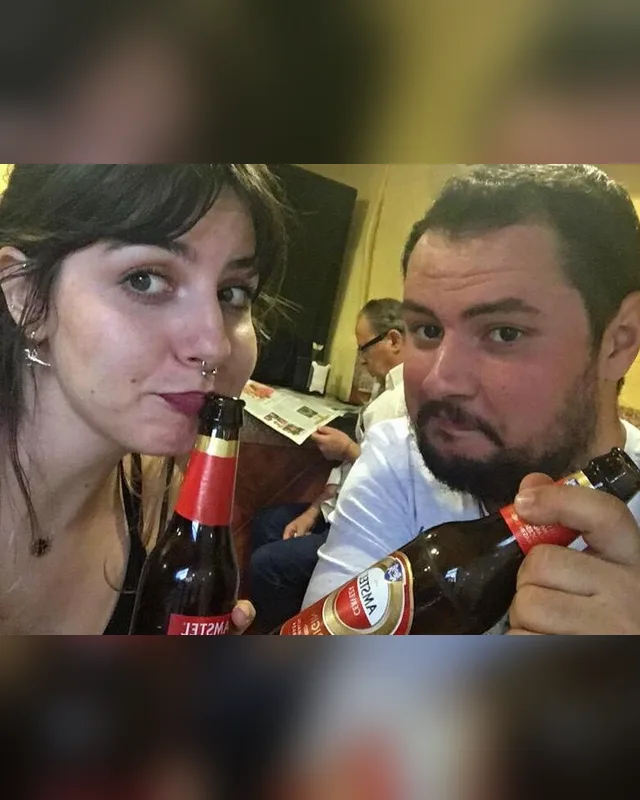
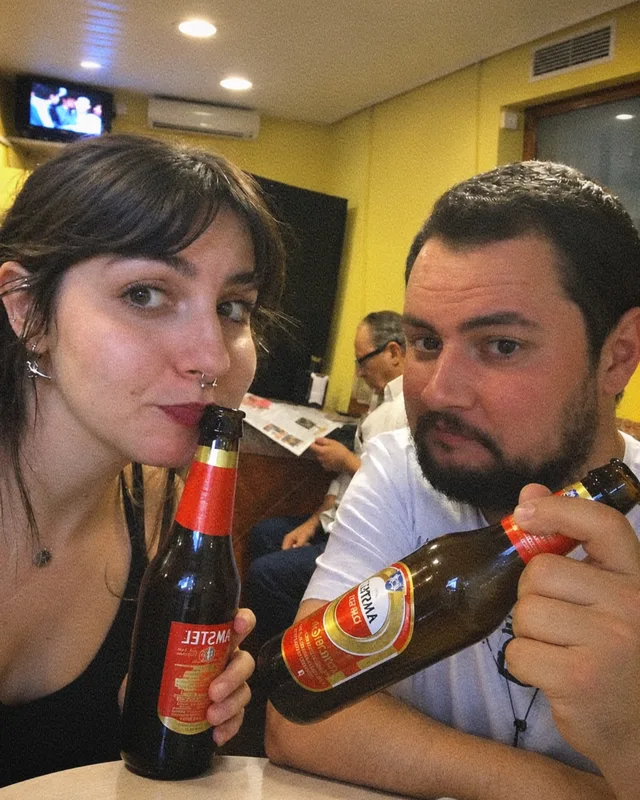
Add files via upload

diff --git a/index.html b/index.html
@@ -475,7 +475,7 @@ async function cargar() {
 }
 
 // Retratos definitivos guardados en la propia web (carga rápida e igual para todos)
-const RETRATOS_V = {richi: 5, sonia: 3};
+const RETRATOS_V = {richi: 5, sonia: 4};
 const RETRATOS_FIJOS = new Set(["richi","consuheladillo","aitor","shere","fran","bea","edu","patri","carlos","mario","cani","chechu","manuelmolada","pablo","sonia"]);
 function srcRetrato(s, n) {
   if (s.retrato !== 'demo' && RETRATOS_FIJOS.has(normN(s.nombre))) return '/r-' + normN(s.nombre) + '.webp?v=' + (RETRATOS_V[normN(s.nombre)] || 1);
